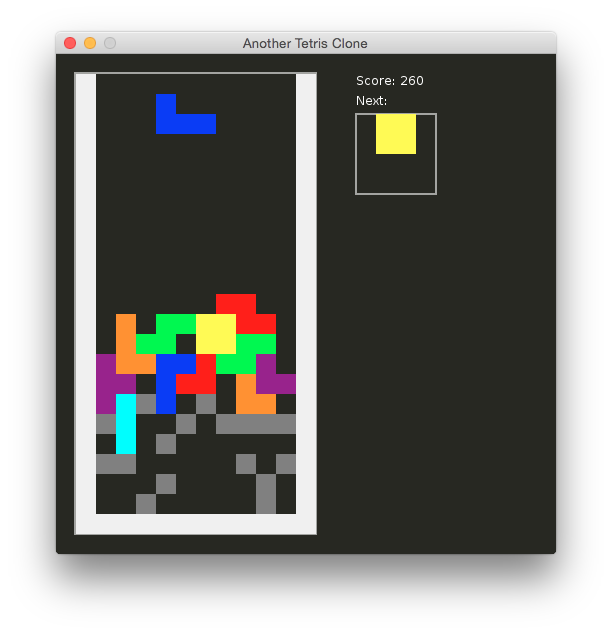
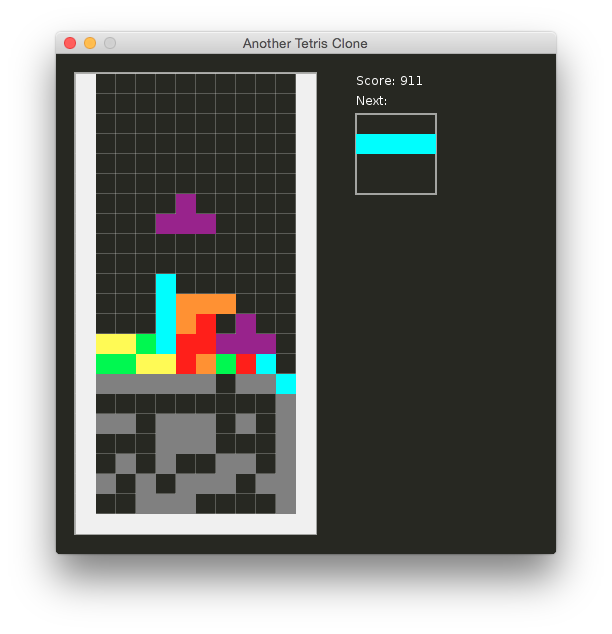
VERSION: 0.4.0

diff --git a/CHANGELOG.md b/CHANGELOG.md
@@ -1,5 +1,9 @@
 # Changelog
 
+## 0.4.0 - 2014-02-26
+
+* drawing grid on the playfield
+
 ## 0.3.0 - 2014-02-16
 
 * more scores on game over screen
